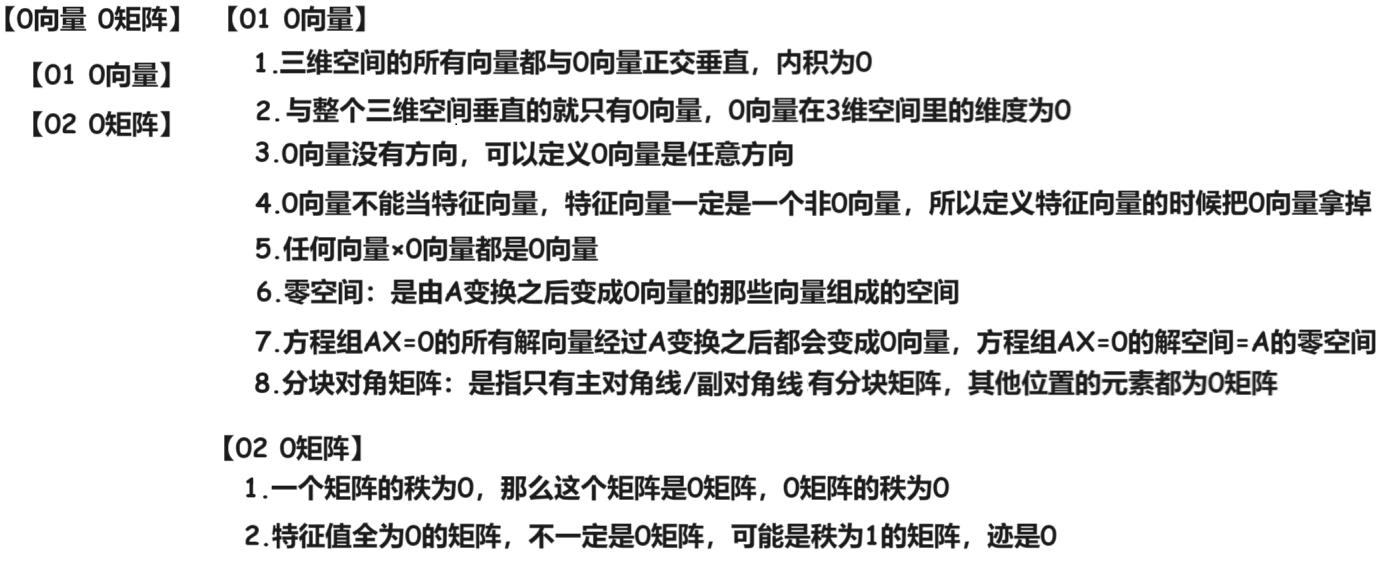
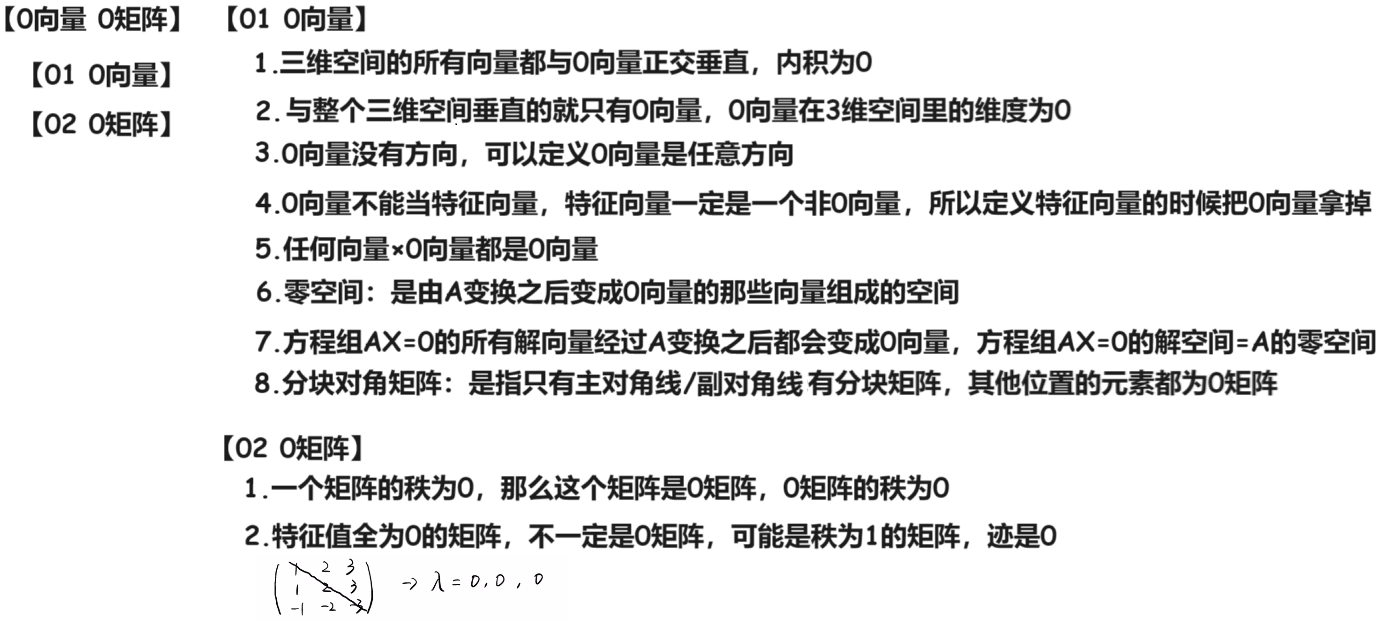
240311

Changed region(s): [[0.1541, 0.0, 0.9864, 0.9877], [0.0, 0.0898, 0.1233, 0.2394], [0.0, 0.0, 0.1233, 0.0599]]

diff --git a/02 线代/02 知识点/11 0向量 0矩阵 240311/02 Doc.md b/02 线代/02 知识点/11 0向量 0矩阵 240311/02 Doc.md
@@ -1,3 +1,3 @@
 # 0向量 0矩阵
 
-<img src="https://cvp.oss-cn-shanghai.aliyuncs.com/picgo/202403111713144.png" alt="image-20240311171343926" style="zoom:50%;" />
+<img src="https://cvp.oss-cn-shanghai.aliyuncs.com/picgo/202403111733435.png" alt="image-20240311173340203" style="zoom:50%;" />

diff --git a/02 线代/02 知识点/15 秩为1的矩阵 【B站 小崔说数】 【B站 高数大头圆】240311/02 【B站 高数大头圆】秩为1的矩阵考法大总结 真题超高频考点/02 Doc.md b/02 线代/02 知识点/15 秩为1的矩阵 【B站 小崔说数】 【B站 高数大头圆】240311/02 【B站 高数大头圆】秩为1的矩阵考法大总结 真题超高频考点/02 Doc.md
@@ -1,0 +1,2 @@
+# r(A)=1的所有考法大盘点
+
